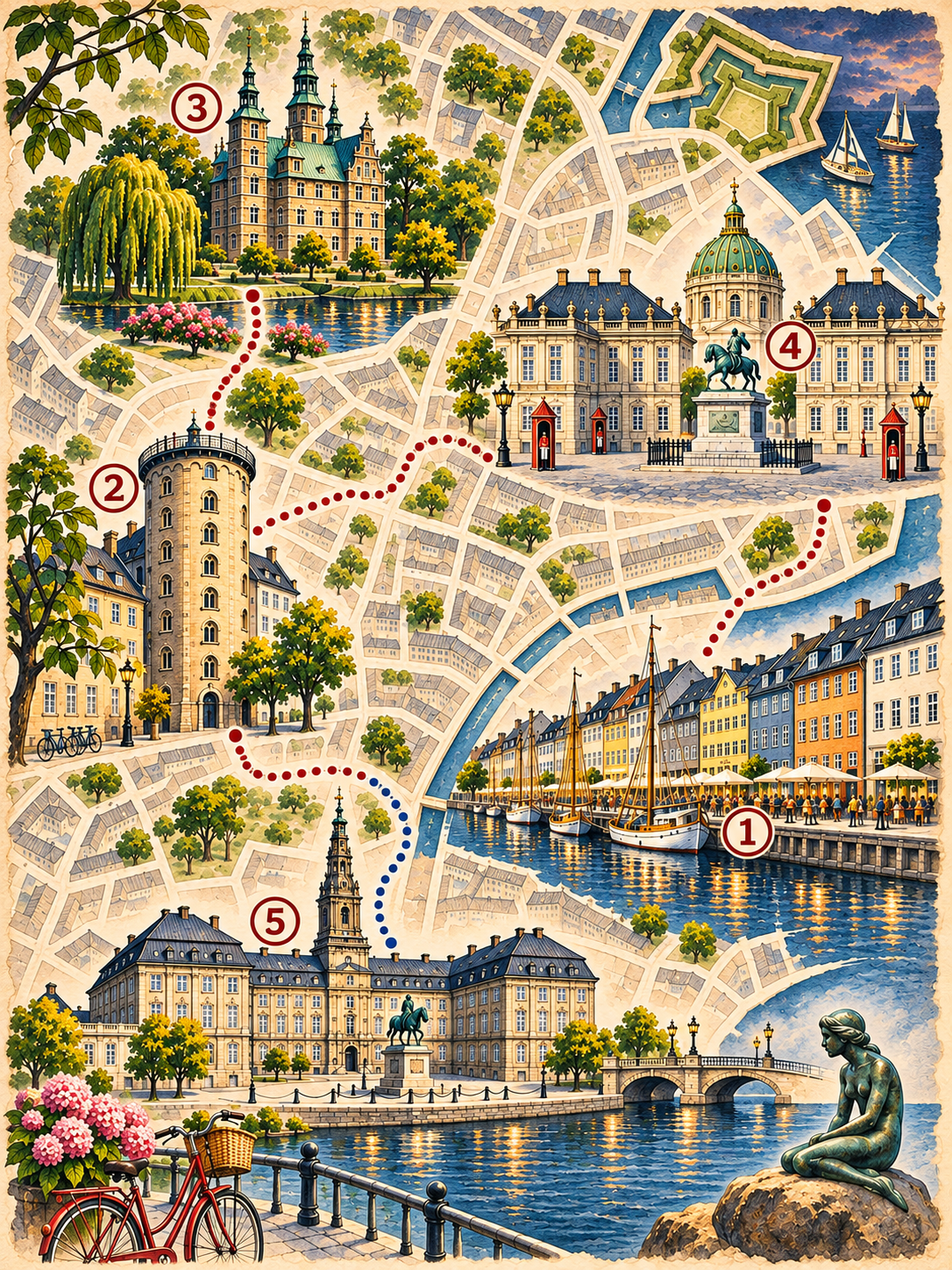
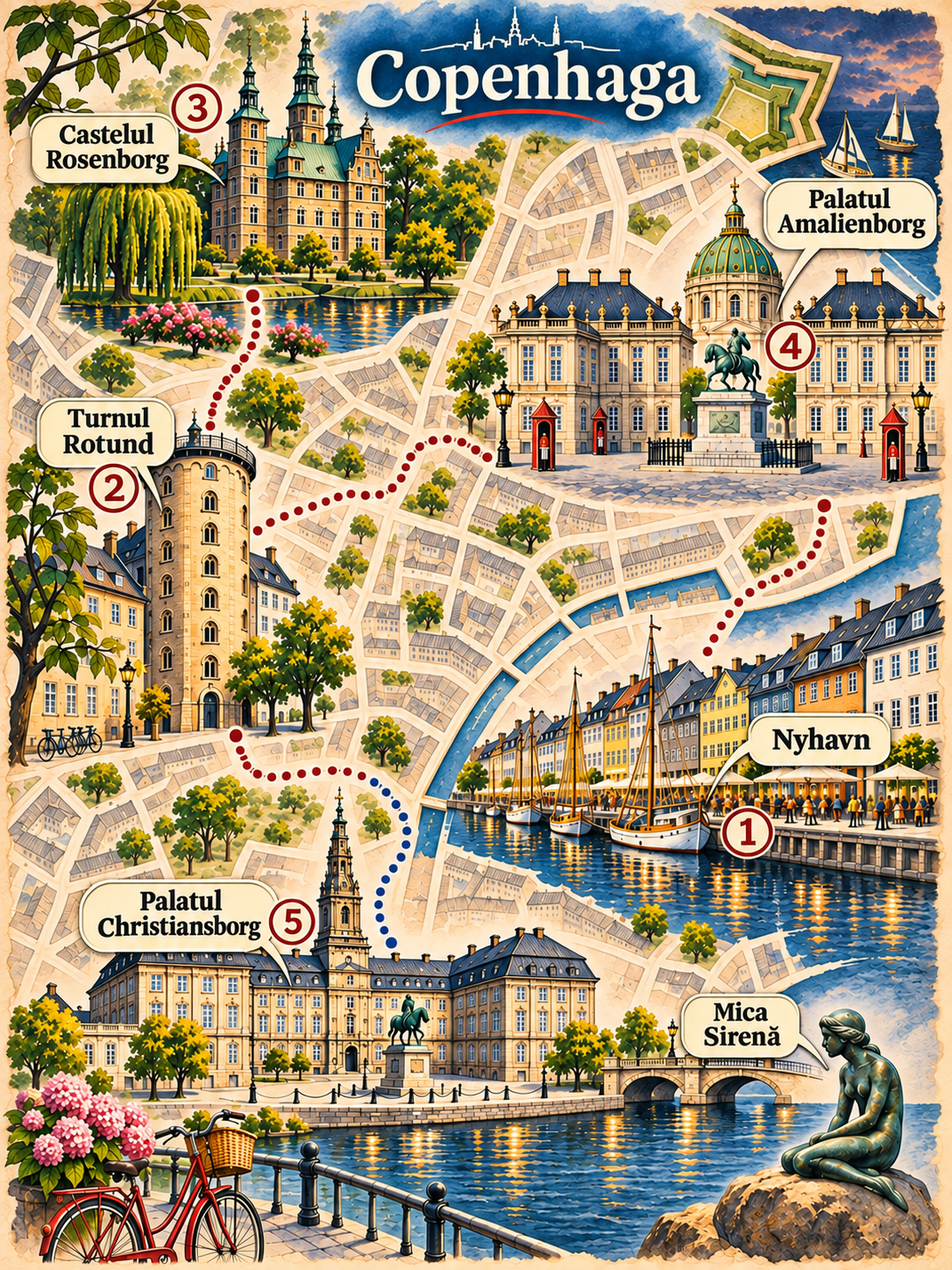
Label Warsaw and Copenhagen maps

diff --git a/ILUSTRATII.md b/ILUSTRATII.md
@@ -21,9 +21,11 @@ Se adaugă numele obiectivelor direct pe hărțile existente, în stilul aprobat
 - Bologna
 - Lyon
 - Porto
+- Varșovia
+- Copenhaga
 
 Harta originală pentru Praga avea deja etichete. Celelalte orașe din `assets/guides-prague-style/` necesită în continuare verificare și prelucrare. Actualizează această listă în același commit cu fiecare lot nou.
 
-Ilustrațiile fără etichete sunt păstrate în istoricul Git: pentru Roma și Barcelona folosește fișierul de la commitul `14f016a`, iar pentru Paris, Londra, Lisabona, Berlin și Bruxelles de la `508e691`. Pentru Budapesta, Atena, Veneția, Amsterdam, Viena, Milano, Madrid, Bologna, Lyon și Porto se pot folosi originalele de la `48efdd5`. Copii locale sunt în `/workspace/guide-batch/original-illustrations` când acel director este disponibil. Păstrează imaginile originale pentru quiz.
+Ilustrațiile fără etichete sunt păstrate în istoricul Git: pentru Roma și Barcelona folosește fișierul de la commitul `14f016a`, iar pentru Paris, Londra, Lisabona, Berlin și Bruxelles de la `508e691`. Pentru Budapesta, Atena, Veneția, Amsterdam, Viena, Milano, Madrid, Bologna, Lyon, Porto, Varșovia și Copenhaga se pot folosi originalele de la `48efdd5`. Copii locale sunt în `/workspace/guide-batch/original-illustrations` când acel director este disponibil. Păstrează imaginile originale pentru quiz.
 
 Nu modifica funcționalitatea de căutare a zborurilor în cadrul acestei activități.
